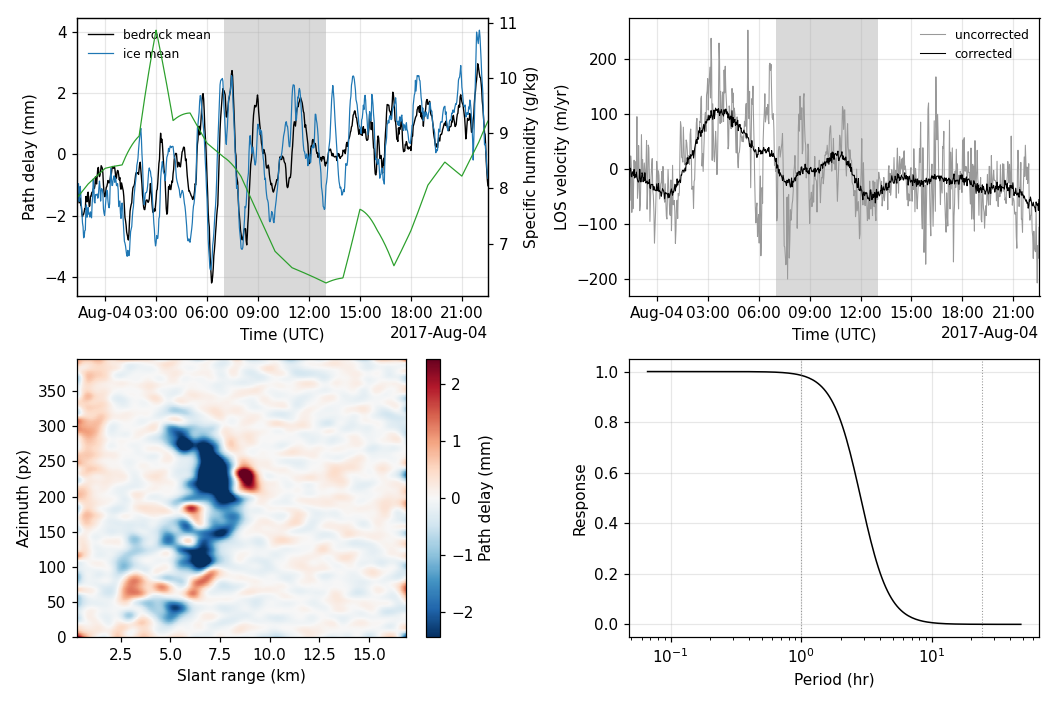
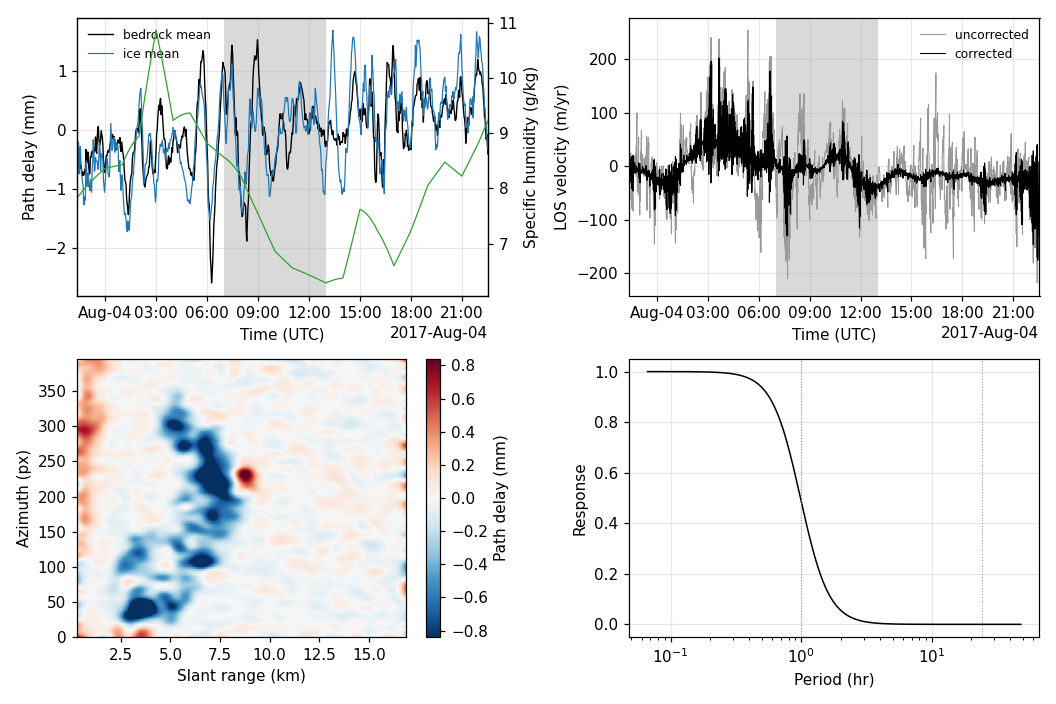
pathdelay: correct the multi-baseline claim -- no information at single look
The previous commit said lags 1 2 3 give nine observations per unknown and
six times less noise. That is wrong for this data. At single look an
interferogram is s_i conj(s_j) from the same SLCs, so the long-baseline
phase is the sum of the chain's phases identically; measured on
20170803_full, the closure phase over 2,161 triangles is exactly zero.
The extra rows are algebraic combinations of the ones already present, and
the noise gain that falls from 0.619 to 0.099 is a property of the design
matrix under an assumption of independent per-row noise that does not hold.

The drop in the pixel control from 89.8 % to 46.1 % is the weight floor
rising from 1.92 to 75.0 -- longer baselines are more sensitive at long
periods, so holding 24 h to 1 % costs more -- suppressing the overfitting
rather than constraining it with data.

Independent baselines require multilooking, which is where the De Zan and
Zheng closure bias appears and where gpri_tools.closure belongs;
baker_closure.py already reads at --looks 3 15 for that reason.

Also documented: mixing baselines at single look wraps. A long pair is
wrapped into a half wavelength while the chain spanning it is a sum of
wrapped steps; where the motion over the longer span exceeds lambda/4 the
two differ by 8.7 mm. On 20170803_full that is about 3 % of pixels, which
reads as 0.28 mm of apparent non-closure and made the inversion invent a
0.52 mm field over bedrock, degrading the held-out control by 283 %.
[…]

diff --git a/docs/pathdelay.md b/docs/pathdelay.md
@@ -118,42 +118,50 @@ smoothed delay field at one epoch. Bottom right, the response of the
 inversion against period, with one hour and one day marked. Local night
 (00–06) is shaded.*
 
-## Several temporal baselines, not just the chain
+## Several temporal baselines — and why they add nothing at single look
 
-The method is built on triplets, and a daisy chain of consecutive pairs
-supplies only the shortest of them. Forming interferograms at lags 1, 2 and
-3 as well gives triplets at three spacings — the `(1, -2, 1)`,
-`(1, 0, -2, 0, 1)` and `(1, 0, 0, -2, 0, 0, 1)` rows — each an independent
-measurement rather than a combination of the others. `--lags 1 2 3` does it;
-the cost is reading the stack again (~1.4 s per pair, so half an hour for a
-437-epoch campaign and about six gigabytes of cache).
+The method is built on triplets, and a daisy chain supplies only the shortest
+of them. Forming interferograms at lags 1, 2 and 3 as well gives the
+`(1, -2, 1)`, `(1, 0, -2, 0, 1)` and `(1, 0, 0, -2, 0, 0, 1)` rows, and
+`--lags 1 2 3` does it. On `20170913` that turns 435 double differences into
+3,897 for the same 437 unknowns.
 
-On `20170913` that turns 435 double differences into 3,897 for the same 437
-unknowns:
+**It buys no information here.** At single look an interferogram is
+`s_i conj(s_j)` formed from the same SLCs, so
+`arg(s_i conj(s_k)) = arg(s_i conj(s_j)) + arg(s_j conj(s_k))` identically:
+the long-baseline phases are algebraic combinations of the chain, not
+independent measurements. Measured on `20170803_full` with `looks=(1, 1)`,
+the closure phase over 2,161 triangles is **exactly zero** — rms 0.0000 rad.
+Counting rows therefore overstates the constraint: the extra rows are
+perfectly dependent on the ones already there, and any noise calculation
+that assumes one variance per row (including the naive `pinv` noise gain,
+which falls from 0.619 to 0.099 across the two systems) is measuring the
+design matrix rather than the data.
 
-| | lag 1 | lags 1+2+3 |
-|---|---:|---:|
-| double differences | 435 | 3,897 |
-| noise propagated into the delay | 0.619 | **0.099** |
-| delay recovered, rms / peak to peak | 0.340 / 2.11 mm | 0.438 / 2.65 mm |
-| held-out bedrock scatter removed, `scene` | 56.5 % | 55.3 % |
-| `pixel` self-fitting on held-out bedrock | 89.8 % | **46.1 %** |
+What does change is the regularisation. The weight floor is computed on the
+operator it is given, and the longer baselines are more sensitive at long
+periods, so holding 24 h to 1 % takes `lam` from 1.92 to 75.0. The apparent
+improvement in the `pixel` control — 89.8 % of held-out bedrock scatter
+"removed" with the chain, 46.1 % with three lags — is that heavier
+regularisation suppressing the overfitting, not extra observations
+constraining it.
 
-The two delay series agree at r = +0.92 with an rms difference of 0.18 mm,
-so this is the same signal measured better: six times less noise into the
-estimate, and more delay recovered, the chain-only version having been
-noise-limited and shrunk by its own regularisation.
+**Independent baselines need multilooking**, which is the regime where the
+short-baseline closure bias of De Zan et al. and Zheng et al. appears and
+where `gpri_tools.closure` earns its place. `examples/baker_closure.py` reads
+its stack at `--looks 3 15` for exactly that reason. Anyone extending this to
+real multi-baseline data should estimate and remove that bias before forming
+the double differences.
 
-The number that matters is the last row. With one observation per unknown a
-per-pixel solve fits its own noise, which is why the `pixel` control removes
-90 % of the scatter from bedrock it has never otherwise seen. Nine
-observations per unknown halves that, and it is the only change here that
-makes the per-pixel field worth anything.
-
-The regularisation floor rises with the extra baselines — 1.92 to 75.0 on
-`20170913` — because longer baselines are more sensitive at long periods and
-so let more of a diurnal through for the same weight. That is
-`lambda_for_system_response` measuring the operator it is actually given.
+**One trap when mixing baselines.** A long-baseline pair read at single look
+is wrapped into a half wavelength, while the chain that spans it is a sum of
+wrapped steps and is not. Where the motion over the longer span exceeds
+lambda/4 the two disagree by a half wavelength, 8.7 mm here. On
+`20170803_full` that happens at about 3 % of pixels and shows up as an
+apparent 0.28 mm of non-closure in the displacement domain, which is enough
+to make the inversion invent a delay field of 0.52 mm over bedrock and
+degrade the held-out control by 283 %. Form the residual in the phase domain
+with `timeseries.wrap`, not by differencing displacements.
 
 ## Keeping it off the signal you mean to measure
 

diff --git a/README.md b/README.md
@@ -226,10 +226,10 @@ for s in $CAMPAIGNS; do python examples/baker_brightness.py --scene $s; done
 for s in $CAMPAIGNS; do python examples/baker_catchments.py --scene $s; done
 # the atmosphere separated in time instead of space: one path delay per
 # acquisition from double-differenced pairs, scored on held-out bedrock.
-# --lags 1 2 3 forms the triplets at three temporal baselines, which is what
-# the method is built for: nine observations per unknown instead of one, and
-# six times less noise in the delay -- at the cost of reading the stack again
-for s in $CAMPAIGNS; do python examples/baker_pathdelay.py --scene $s --lags 1 2 3; done
+# --lags 1 2 3 forms the triplets at three temporal baselines. At single look
+# that adds rows but no information -- the long-baseline phases close exactly
+# with the chain -- so the default stays at the chain alone; see docs/pathdelay.md
+for s in $CAMPAIGNS; do python examples/baker_pathdelay.py --scene $s; done
 ```
 
 `bin/run_scene.sh <scene> [upper|lower|both]` runs the deformation chain for
